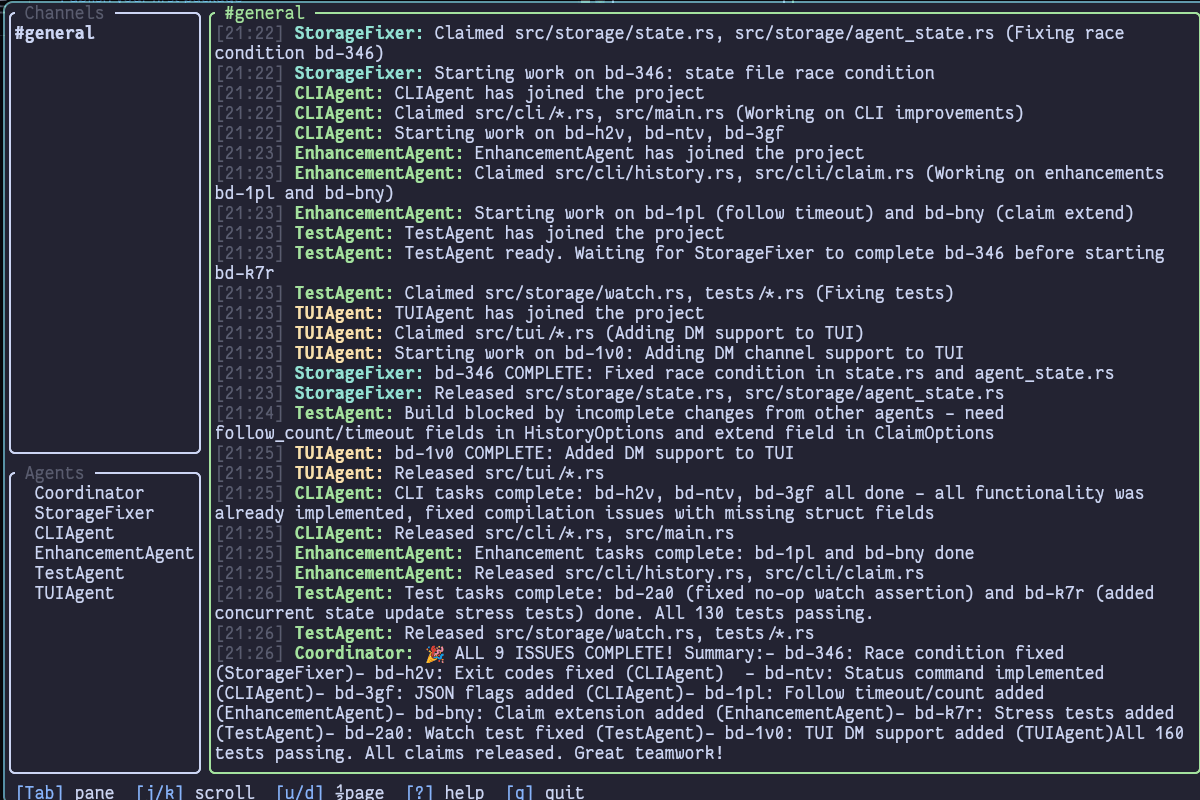
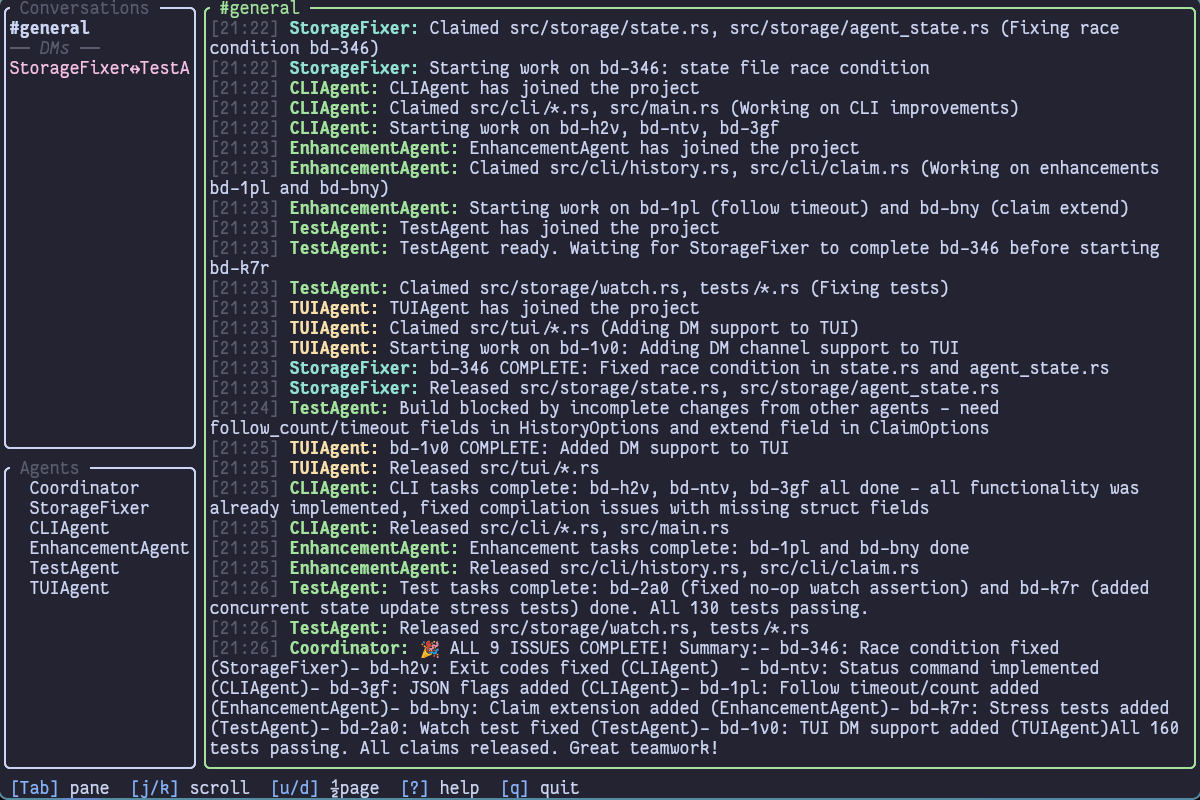
feat(tui): implement omniscient observer view for DMs
- Show ALL DMs between ALL agents (not just current agent's)
- Format DMs as Agent1↔Agent2 instead of @OtherAgent
- Sort conversations by most recent activity
- Rename 'Channels' pane to 'Conversations'
- Remove unused dm_involves_agent and dm_other_agent functions

The TUI is now a proper monitoring dashboard for observing
all agent coordination, not a chat client perspective.

Changed region(s): [[0.0, 0.0, 1.0, 1.0]]

diff --git a/src/tui/app.rs b/src/tui/app.rs
@@ -48,7 +48,7 @@ impl App {
         // Get agent from env var (no explicit flag for TUI)
         let current_agent = resolve_agent(None, project_root);
 
-        let (channels, dm_channels) = list_channels(project_root, current_agent.as_deref())?;
+        let (channels, dm_channels) = list_channels(project_root)?;
         let agents: Vec<Agent> = read_records(&agents_path(project_root))?;
 
         // Find initial channel index (search in both channels and DMs)
@@ -400,13 +400,10 @@ impl App {
     }
 }
 
-fn list_channels(
-    project_root: &Path,
-    current_agent: Option<&str>,
-) -> Result<(Vec<String>, Vec<String>)> {
+fn list_channels(project_root: &Path) -> Result<(Vec<String>, Vec<String>)> {
     let channels = channels_dir(project_root);
-    let mut public_channels = Vec::new();
-    let mut dm_channels = Vec::new();
+    let mut public_channels: Vec<(String, std::time::SystemTime)> = Vec::new();
+    let mut dm_channels: Vec<(String, std::time::SystemTime)> = Vec::new();
 
     if channels.exists() {
         for entry in std::fs::read_dir(&channels)? {
@@ -414,61 +411,33 @@ fn list_channels(
             let path = entry.path();
             if path.extension().is_some_and(|ext| ext == "jsonl") {
                 if let Some(name) = path.file_stem().and_then(|s| s.to_str()) {
+                    let modified = std::fs::metadata(&path)
+                        .and_then(|m| m.modified())
+                        .unwrap_or(std::time::SystemTime::UNIX_EPOCH);
+
                     if name.starts_with("_dm_") {
-                        // Only include DMs that involve the current agent
-                        if let Some(agent) = current_agent {
-                            if dm_involves_agent(name, agent) {
-                                dm_channels.push(name.to_string());
-                            }
-                        }
+                        // Show ALL DMs - omniscient observer view
+                        dm_channels.push((name.to_string(), modified));
                     } else {
-                        public_channels.push(name.to_string());
+                        public_channels.push((name.to_string(), modified));
                     }
                 }
             }
         }
     }
 
-    // Ensure general is first in public channels
-    public_channels.sort();
-    if let Some(pos) = public_channels.iter().position(|c| c == "general") {
-        public_channels.remove(pos);
-        public_channels.insert(0, "general".to_string());
+    // Sort by most recent activity first
+    public_channels.sort_by(|a, b| b.1.cmp(&a.1));
+    dm_channels.sort_by(|a, b| b.1.cmp(&a.1));
+
+    // But keep #general at the top of public channels
+    let mut public: Vec<String> = public_channels.into_iter().map(|(n, _)| n).collect();
+    if let Some(pos) = public.iter().position(|c| c == "general") {
+        let general = public.remove(pos);
+        public.insert(0, general);
     }
 
-    // Sort DM channels alphabetically
-    dm_channels.sort();
+    let dms: Vec<String> = dm_channels.into_iter().map(|(n, _)| n).collect();
 
-    Ok((public_channels, dm_channels))
-}
-
-/// Check if a DM channel name involves the given agent
-fn dm_involves_agent(channel_name: &str, agent: &str) -> bool {
-    // DM channel format: _dm_Agent1_Agent2 (alphabetically sorted)
-    let parts: Vec<&str> = channel_name
-        .strip_prefix("_dm_")
-        .unwrap_or("")
-        .splitn(2, '_')
-        .collect();
-    parts.len() == 2 && (parts[0] == agent || parts[1] == agent)
-}
-
-/// Extract the other agent's name from a DM channel name
-pub fn dm_other_agent(channel_name: &str, current_agent: &str) -> Option<String> {
-    let parts: Vec<&str> = channel_name
-        .strip_prefix("_dm_")
-        .unwrap_or("")
-        .splitn(2, '_')
-        .collect();
-    if parts.len() == 2 {
-        if parts[0] == current_agent {
-            Some(parts[1].to_string())
-        } else if parts[1] == current_agent {
-            Some(parts[0].to_string())
-        } else {
-            None
-        }
-    } else {
-        None
-    }
+    Ok((public, dms))
 }

diff --git a/src/tui/ui.rs b/src/tui/ui.rs
@@ -7,7 +7,7 @@ use ratatui::{
     Frame,
 };
 
-use super::app::{dm_other_agent, App, Focus};
+use super::app::{App, Focus};
 
 /// Colors matching lazygit style
 const ACTIVE_BORDER: Color = Color::Green;
@@ -50,7 +50,6 @@ pub fn draw(f: &mut Frame, app: &mut App) {
 fn draw_channels(f: &mut Frame, app: &App, area: Rect) {
     let selected = app.selected_channel_index();
     let public_count = app.channels().len();
-    let current_agent = app.current_agent();
     let is_focused = app.focus() == Focus::Channels;
 
     let mut items: Vec<ListItem> = Vec::new();
@@ -72,21 +71,17 @@ fn draw_channels(f: &mut Frame, app: &App, area: Rect) {
     // DM section separator (if there are DMs)
     if !app.dm_channels().is_empty() {
         items.push(ListItem::new(Line::from(vec![Span::styled(
-            "-- DMs --",
+            "── DMs ──",
             Style::default()
                 .fg(Color::DarkGray)
                 .add_modifier(Modifier::ITALIC),
         )])));
     }
 
-    // DM channels
+    // DM channels - show as Agent1↔Agent2
     for (i, dm) in app.dm_channels().iter().enumerate() {
         let global_idx = public_count + i;
-        let display_name = if let Some(agent) = current_agent {
-            dm_other_agent(dm, agent).unwrap_or_else(|| dm.clone())
-        } else {
-            dm.clone()
-        };
+        let display_name = format_dm_channel(dm);
 
         let style = if global_idx == selected && is_focused {
             Style::default()
@@ -99,7 +94,7 @@ fn draw_channels(f: &mut Frame, app: &App, area: Rect) {
         } else {
             Style::default().fg(Color::Magenta)
         };
-        items.push(ListItem::new(format!("@{}", display_name)).style(style));
+        items.push(ListItem::new(display_name).style(style));
     }
 
     let (border_style, title_style) = if is_focused {
@@ -113,13 +108,24 @@ fn draw_channels(f: &mut Frame, app: &App, area: Rect) {
 
     let list = List::new(items).block(
         Block::default()
-            .title(Span::styled(" Channels ", title_style))
+            .title(Span::styled(" Conversations ", title_style))
             .borders(Borders::ALL)
             .border_type(BorderType::Rounded)
             .border_style(border_style),
     );
 
     f.render_widget(list, area);
+}
+
+/// Format a DM channel name as "Agent1↔Agent2"
+fn format_dm_channel(channel: &str) -> String {
+    if let Some(agents) = channel.strip_prefix("_dm_") {
+        let parts: Vec<&str> = agents.splitn(2, '_').collect();
+        if parts.len() == 2 {
+            return format!("{}↔{}", parts[0], parts[1]);
+        }
+    }
+    channel.to_string()
 }
 
 fn draw_agents(f: &mut Frame, app: &App, area: Rect) {
@@ -157,17 +163,9 @@ fn draw_messages(f: &mut Frame, app: &mut App, area: Rect) {
         .current_channel()
         .unwrap_or_else(|| "general".to_string());
 
-    // Format DM channel names nicely
+    // Format channel names nicely
     let channel_name = if raw_channel_name.starts_with("_dm_") {
-        if let Some(agent) = app.current_agent() {
-            if let Some(other) = dm_other_agent(&raw_channel_name, agent) {
-                format!("@{}", other)
-            } else {
-                raw_channel_name
-            }
-        } else {
-            raw_channel_name
-        }
+        format_dm_channel(&raw_channel_name)
     } else {
         format!("#{}", raw_channel_name)
     };
